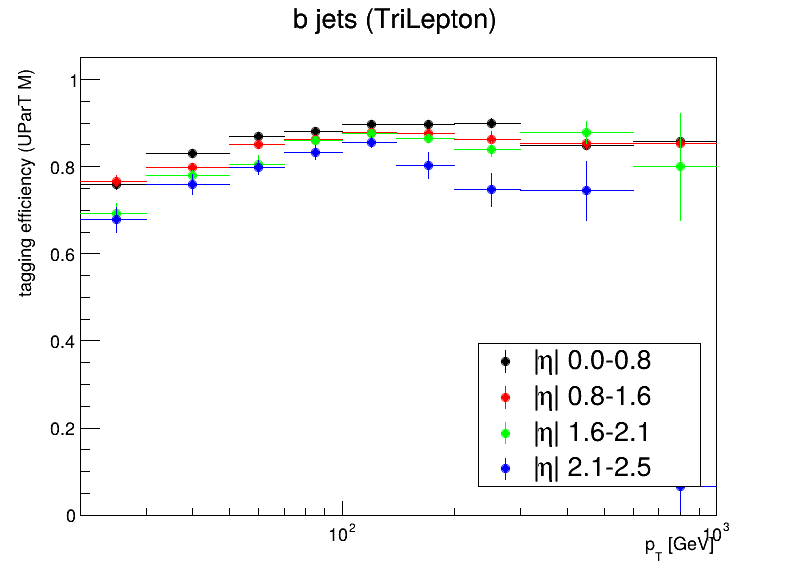
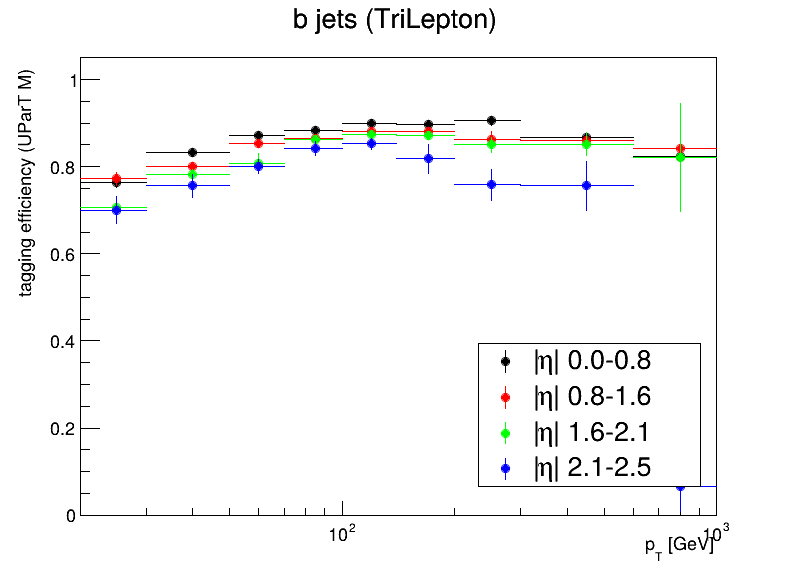
b-tag cross-check: each process once (no FxFx WZ, no DYG); 33 samples
Claude-Session: https://claude.ai/code/session_019Dj4k2CsjooXqEsVcZpA2j

diff --git a/BTagEff/python/makeBTagEff.py b/BTagEff/python/makeBTagEff.py
@@ -128,8 +128,11 @@ def main():
             p.unlink()
         tmp.rmdir()
     if a.crosscheck:
+        # each process once (as the SR prediction): no data, no signal, no alternative WZ (FxFx) and no DYG
+        # (overlaps DY 2J); found by the an-writer check 2026-11-28 (WZ was counted twice)
+        skip = ("MuonEG", "_Muon0", "_Muon1", "TTToHcToWA", "WZto3LNu_1J_amcatnloFXFX", "DYGto2LG")
         mc = [p for p in glob.glob(os.path.join(a.crosscheck, "*.root"))
-              if not any(s in os.path.basename(p) for s in ("MuonEG", "_Muon0", "_Muon1", "TTToHcToWA"))]
+              if not any(s in os.path.basename(p) for s in skip)]
         effx = eff_hists(mc)
         lines += table(effx, f"cross-check: TriLepton preselection, {len(mc)} MC samples summed")
         plot(effx, "TriLepton")

diff --git a/docs/LOG_ObjectID.md b/docs/LOG_ObjectID.md
@@ -4,6 +4,56 @@ Decisions and findings for the ObjectID section of AN-26-267: lepton, jet, b-jet
 
 
 
+## 2026-11-28 (AN: TriLepton b-tag cross-check with each process once, 33 MC samples)
+
+- **Written** (an-writer), `Appendix/ObjectID.tex` `appendix:BTaggingEfficiency`, TriLepton cross-check only:
+  - Sample sentence: each process is taken once. The alternative WZ sample (`WZto3LNu_1J_amcatnloFXFX`) and all six `DYGto2LG` samples are excluded, which leaves 33 MC samples. The "WZ counted twice" caveat is removed.
+  - Jet counts (den entries): b 4.8e6, c 2.0e6, light 1.5e7 (they were 4.8e6, 2.2e6, 1.7e7).
+  - Ratios TriLepton / TTLL for pT < 300 GeV (28 bins): b median 0.99 (0.92-1.01, no bin beyond 3 sigma); light median 1.07 (0.57-1.69, 2 bins beyond +3 sigma); c median 0.77 (0.43-1.07, 5 bins below -3 sigma).
+  - c-jet composition: WZ 56%, TTLL 7% (it was 65% from the two WZ samples and 4% TTLL). The b efficiency at 600-1000 GeV and |eta| 2.1-2.5 is still 0.065.
+  - `fig:app-BTagEffTriLepton`: copied the regenerated `BTagEff/plots/AN/2024/eff_{b,c,light}_TriLepton.png`; the md5 of each copy matches its source. Caption: "each process once". The median in the PLAN 2.5 TODO changes from 0.75 to 0.77.
+  - The appendix builds on its own; the only undefined references point to other sections.
+- **Sources** (2026-11-28):
+  - Sample selection: `BTagEff/python/makeBTagEff.py:130-136` (the skip list).
+  - `BTagEff/results/2024/efficiencies.txt`, block "33 MC samples summed". The file is dated 13:01 (the task said 13:10).
+  - Ratios, pulls, entries and composition: computed from the unrounded histograms with a scratch script that calls `makeBTagEff.eff_hists` on the same 33 files and on `SKNanoOutput/DiLepton/MeasBTagEff/2024/TTLL_powheg.root`.
+  - The TTLL JSON and the TTLL plots are unchanged: md5 1a24e3c6, and the AN copies are identical.
+- **Mismatches:**
+  - The task statement quoted the ratios from the 3-decimal table: b 0.99 (0.92-1.01), c 0.77 (0.43-1.07), light 1.14 (0.60-1.69).
+    - Recomputing from that table gives light median 1.127 (0.600-1.688), c 0.769 (0.426-1.074) and b 0.992 (0.920-1.013).
+    - The light efficiencies are 0.003-0.03, so rounding to three decimals shifts their ratios. The unrounded light median is 1.069 and the minimum is 0.569.
+    - The AN uses the unrounded values (light 1.07, 0.57-1.69), as the previous entry did. The b and c values agree with the task.
+  - One sample, `DYto2Tau_2J_MLL50toInf`, has a negative c-jet sum of weights below 300 GeV. Its effect on the sum is small.
+- **Open:**
+  - user (PLAN 2.5): whether the c-jet sample dependence (median now 0.77, driven by WZ) becomes an additional b-tag efficiency uncertainty.
+  - user / BkgEst: the exclusion removes all `DYGto2LG` samples. That includes `DYGto2LG_1J_MLL4to50`, which covers m_ll 4-10 GeV, below the DY 2J samples (MLL10to50). TTG is kept together with TTLL. The cross-check should follow the sample list of the SR prediction once the DY/DYG overlap is decided (`LOG_BkgEst.md`).
+  - Still open from the entries below: the SR yield / N_b comparison (PLAN 2.5 step 3), the plot style, the UParT WP study, and keeping the EMU HcToWABTagEff plot set.
+
+## 2026-11-28 (AN: b-tag check in e-mu with the HcToWA map; TriLepton cross-check in the appendix)
+
+- **Written** (an-writer):
+  - `Sections/ObjectID.tex` `ssec:BTagSFEffect`: numbers and the left panel of `fig:BTagSFEffect` now come from the HcToWA map. The DiLepton EMU MC production is `RunEMu_RunSyst_TrigDZ_HcToWABTagEff`; the data are the unchanged MuonEG files of `RunEMu_RunSyst_TrigDZ`, which are links to LepIDSF. Changes: the weight scales the simulated yield by 0.980 (approximate map: 0.976); data/MC goes 0.934 -> 0.953 (approximate map: 0.957); ratios for 1-4 b jets are 0.928, 0.959, 1.43, 1.61 (approximate map: 0.933, 0.961, 1.44, 1.61; without the weight: 0.977, 0.880, 1.36, 1.43, unchanged); the gap between the 1- and 2-b bins is 0.031 (approximate map: 0.028). The measured map raises the simulated yield by 0.4% and moves every 1-4 b-jet ratio by at most 0.005. The 2026-11-28 TODO is closed. The old numbers are kept in the text as the comparison.
+  - `ssec:BJetID`: states that the control-region results use the approximate map, except `ssec:BTagSFEffect`. Closed the TODO "rebuild libHcToWA.so before c657425": all 855 EMU job logs print the HcToWA map, and the snapshot JSON has md5 1a24e3c6 (= `BTagEff/results/2024/btaggingEff_HcToWA.json`).
+  - `Appendix/ObjectID.tex` `appendix:BTaggingEfficiency`: the TriLepton cross-check replaces the two TODOs. It gives the selection from `TriLepton.cc#SelectLane` (all-tight MC, trigger, lepton pT, OS muon pair(s) with m > 12 GeV, conversion filter, before jet requirements; Central lane; gen x norm x PU) and the jet counts (b 4.8e6, c 2.2e6, light 1.7e7 entries). Ratios to TTLL for pT < 300 GeV, 28 bins: b median 0.99 (0.91-1.01, no bin beyond 3 sigma); light 1.0 (0.61-1.37, 5 bins beyond 3 sigma); c 0.75 (0.52-1.00, 12 bins beyond 3 sigma). New figure `fig:app-BTagEffTriLepton` (copies of `BTagEff/plots/AN/2024/eff_*_TriLepton.png` in `Figures/BTagEff/2024/`). The SR-yield TODO is kept.
+  - Figure files: new `Figures/DiLepton/2024/EMU_HcToWABTagEff/Central/bjets_size.png`. The right panel keeps `Figures/DiLepton/2024/EMU/NoBtagSF/bjets_size.png`, which is byte-identical to the new production's NoBtagSF plot.
+  - Both files build alone; only cross-references to other sections are undefined.
+- **Sources** (2026-11-28):
+  - knu1 `/pnfs/.../SKNanoOutput/DiLepton/RunEMu_RunSyst_TrigDZ_HcToWABTagEff/2024/*.provenance.json`: commit c65742573ab9, userflags `RunEMu,RunSyst,TrigDZ,HcToWABTagEff`, 22 MC. Local copies: md5 equal for TTLL_powheg and WZ_pythia.
+  - Run dir `knu1:/d0/scratch/choij/SKNanoRunlog/2026_11_28_090131_DiLepton_RunEMu_RunSyst_TrigDZ_HcToWABTagEff`.
+  - Plots: `DiLepton/python/plot.py --channel EMU --all-lanes`, run on a scratch copy of plot.py / Common/Tools / config/plotting with `PRODUCTION["EMU"] = "TrigDZ_HcToWABTagEff"`, and a scratch SKNanoOutput view (new MC + TrigDZ MuonEG). Output: `corrections.txt` Central MC 689183.3, NoBtagSF 703281.3 (identical to TrigDZ).
+  - Per-bin ratios: computed with ROOT from `EMU/{Central,BtagSF_NotImplemented}/bjets/size`. Recomputing the TrigDZ numbers this way reproduces the 2026-11-26 values exactly.
+  - Cross-check: `makeBTagEff.eff_hists` on the 40 TriLepton background files, compared with the TTLL file, using the unrounded histograms. The range ends differ in the last digit from the entry below, which used the 3-decimal table (light 0.60-1.38 -> 0.61-1.37, c max 0.99 -> 1.00).
+- **Findings / mismatches:**
+  - The S1 (b) cross-check sums all 40 TriLepton background samples. That includes both WZ samples (nominal `WZto3LNu` powheg and the alternative `WZto3LNu_1J_amcatnloFXFX`), so WZ is counted twice; DY 2J and DYGto2LG are both included (their overlap is open in `LOG_BkgEst.md`). The c jets of the cross-check below 300 GeV are 65% WZ (33% + 32%), 4% TTLL. The c sample dependence is therefore WZ vs tt; the "ttV" contribution named in the entry below is minor (ttZ 5%). The AN text states the double counting.
+  - Figures without a durable source: the new EMU plot set (all lanes) exists only in the scratch run and in the AN copy. `DiLepton/plots/AN/2024/EMU/` still holds the approximate-map production, which the rest of the AN uses. To regenerate: the same plot.py with the EMU production switched and the MuonEG data linked into the new production directory.
+  - The appendix caption at `appendix:DiLeptonValidation` (EMU figure) points to `fig:BTagSFEffect` for the b-jet multiplicity, which now uses the other map. Harmless; not changed.
+- **Open:**
+  - user (PLAN 2.5): whether the c-jet sample dependence (median 0.75) becomes an additional b-tag efficiency uncertainty. If it is quantified, use the cross-check without the double-counted WZ sample.
+  - user / orchestrator: persist the HcToWABTagEff EMU plot set (e.g. a production switch in `DiLepton/python/plot.py` plus data links in `SKNanoOutput/DiLepton/RunEMu_RunSyst_TrigDZ_HcToWABTagEff/2024/`). Not done here (outside the an-writer scope).
+  - later phase (PLAN 2.5 step 3): SR yield / N_b comparison approximate vs measured map (gate: user review, PLAN_Signal step 1).
+  - user: plot style of `BTagEff/plots/AN/2024/` (now also the TriLepton panels in the AN).
+  - later phase (PLAN 2.5): UParT WP study (`appendix:BTaggingWP`).
+
 ## 2026-11-28 (b-tag cross-check with the final TriLepton production)
 
 - **Cross-check (PLAN_Signal S1 (b))**: `BTagEff/python/makeBTagEff.py --crosscheck` on the final TriLepton production (`..._HcToWABTagEff`, BTagEffHists of the TriLepton preselection, 40 MC samples summed, signal and data excluded; gen x norm x PU), against the TTLL map, pT < 300 GeV (28 bins per flavour): b ratio TriLepton/TTLL median 0.99 (0.91-1.01); light median 1.00 (0.60-1.38, statistics); c median 0.75 (0.52-0.99): the c efficiency is sample dependent (c jets from W -> cs / gluon splitting in WZ, ttV vs tt). The map stays the TTLL one (S1 (a)); the c dependence is a candidate for an additional b-tag efficiency uncertainty (open, later phase). Table `BTagEff/results/2024/efficiencies.txt` (replaces the partial Val cross-check), plots `BTagEff/plots/AN/2024/eff_*_TriLepton.png`; the JSON is unchanged.
